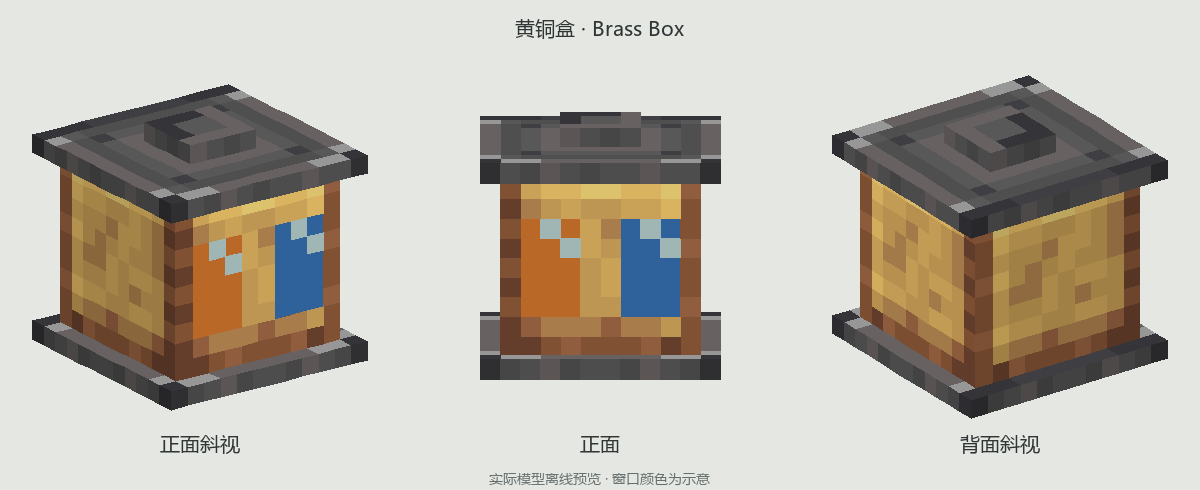
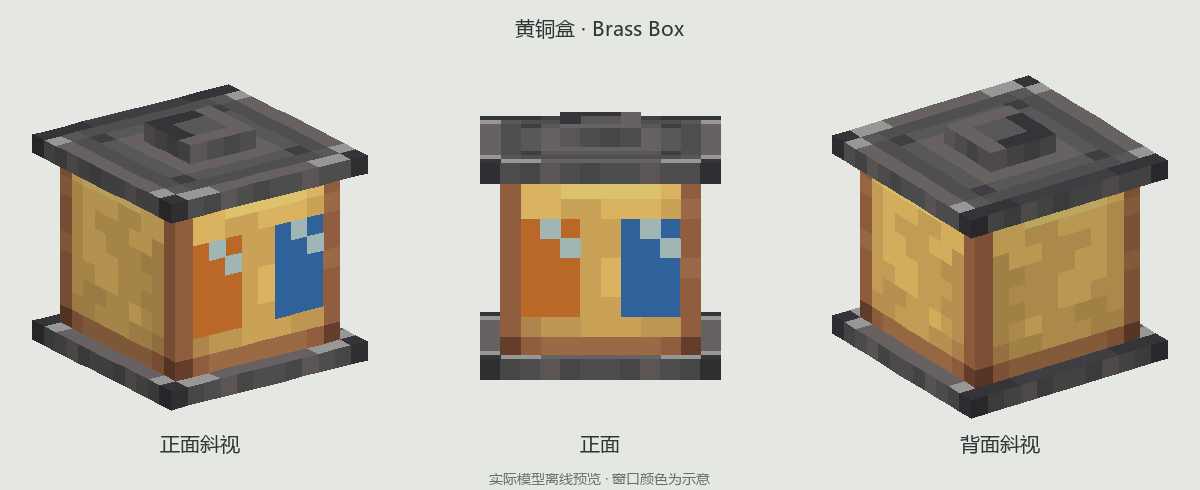
Redraw brass box panels using Create mechanical arm material cues

diff --git a/tools/create-brass-box.py b/tools/create-brass-box.py
@@ -12,22 +12,35 @@ ROOT = Path(__file__).resolve().parents[1]
 ASSETS = ROOT / 'src/main/resources/assets/ccd'
 OUT = ROOT / 'outputs/brass-box'
 TEXTURES = ASSETS / 'textures/item/brass_box'
-COPPER = [(144,73,49),(154,80,56),(167,90,64),(178,98,71),(194,107,76),(200,116,86),(214,123,91),(227,130,108)]
-BRASS = [(114,71,49),(145,92,58),(164,107,71),(191,142,85),(215,170,94),(228,183,99),(247,203,108),(251,220,125)]
+BRASS = [(114,71,49),(164,107,71),(175,121,79),(199,151,88),(215,170,94),(228,183,99),(247,203,108),(251,220,125)]
+# Hand-drawn panel using the actual mechanical_arm / mechanical_arm_side ramp.
+# Bright folded lip, broad golden face, connected asymmetric wear and brown folds.
+# Each character is one source pixel; this is independent of the copper layout.
+PANEL = (
+    '1677777661',
+    '2566655661',
+    '1565556641',
+    '1566555441',
+    '2566655541',
+    '1556655441',
+    '1544556541',
+    '1445554431',
+    '0122222210',
+)
 
 
 def main():
     OUT.mkdir(parents=True, exist_ok=True)
     TEXTURES.mkdir(parents=True, exist_ok=True)
-    source = ASSETS / 'textures/item/fluid_canister'
-    remap = dict(zip(COPPER, BRASS))
     for name in ('side', 'back'):
-        old = Image.open(source / f'{name}.png').convert('RGBA')
         canvas = Canvas(16, 16)
         for y in range(16):
             for x in range(16):
-                pixel = old.getpixel((x, y))
-                canvas.set(x, y, (*remap.get(pixel[:3], pixel[:3]), pixel[3]))
+                canvas.set(x, y, BRASS[4])
+        for y,row in enumerate(PANEL,6):
+            for x,index in enumerate(row,3):
+                # Back gets a mirrored wear arrangement, retaining the same folded edges.
+                canvas.set(x,y,BRASS[int(row[9-(x-3)] if name=='back' else index)])
         canvas.save(str(TEXTURES / f'{name}.png'))
     # The front uses the same metal panel; windows are actual geometry openings.
     elements = []
@@ -60,7 +73,8 @@ def main():
         plane(f'glint_{x}_{y}',x,y,1,2.99,'glass')
     # Shared iron closure and glass resources deliberately match the copper canister.
     textures = {key:'ccd:item/fluid_canister/'+key for key in ('band','flat','cap','glass')}
-    textures.update(side='ccd:item/brass_box/side', window='minecraft:block/white_concrete', particle='ccd:item/brass_box/side')
+    textures.update(side='ccd:item/brass_box/side', back='ccd:item/brass_box/back', window='minecraft:block/white_concrete', particle='ccd:item/brass_box/side')
+    elements[0]['faces']['south']['texture'] = '#back'
     model = dict(parent='create:item/package_transforms', render_type='minecraft:solid', textures=textures,
                  elements=[{('from' if k == 'from_' else k):v for k,v in e.items()} for e in elements],
                  display=json.loads((ASSETS / 'models/item/fluid_package.json').read_text())['display'])
@@ -122,8 +136,14 @@ def main():
         draw.text((i*400+200,443),label,font=font,fill='#303535',anchor='mm')
     draw.text((600,478),'实际模型离线预览 · 窗口颜色为示意',font=ImageFont.truetype(r'C:\Windows\Fonts\msyh.ttc',14),fill='#677070',anchor='mm')
     preview.save(OUT / 'preview.png')
+    pixels = Image.new('RGBA',(32,16))
+    pixels.alpha_composite(Image.open(TEXTURES/'side.png'),(0,0))
+    pixels.alpha_composite(Image.open(TEXTURES/'back.png'),(16,0))
+    pixels.save(OUT/'textures-source.png')
+    pixels.resize((512,256),Image.Resampling.NEAREST).save(OUT/'textures.png')
     (OUT / 'model.meta.json').write_text(json.dumps(dict(name='Brass Box',model='ccd:item/composite_package',
-        textureSize=[16,16],reference='Fluid Canister',bounds=[12,12,12],palette=BRASS,
+        textureSize=[16,16],reference='Fluid Canister geometry; Create mechanical_arm and mechanical_arm_side brass',bounds=[12,12,12],palette=BRASS,
+        artwork='hand-drawn brass panel, independent pixel layout from the copper canister',
         windows='two existing fluid color samples; no dynamic level or fluid texture added',
         sharedResources=['fluid_canister/band','fluid_canister/flat','fluid_canister/cap','fluid_canister/glass']),indent=2)+'\n')
 
